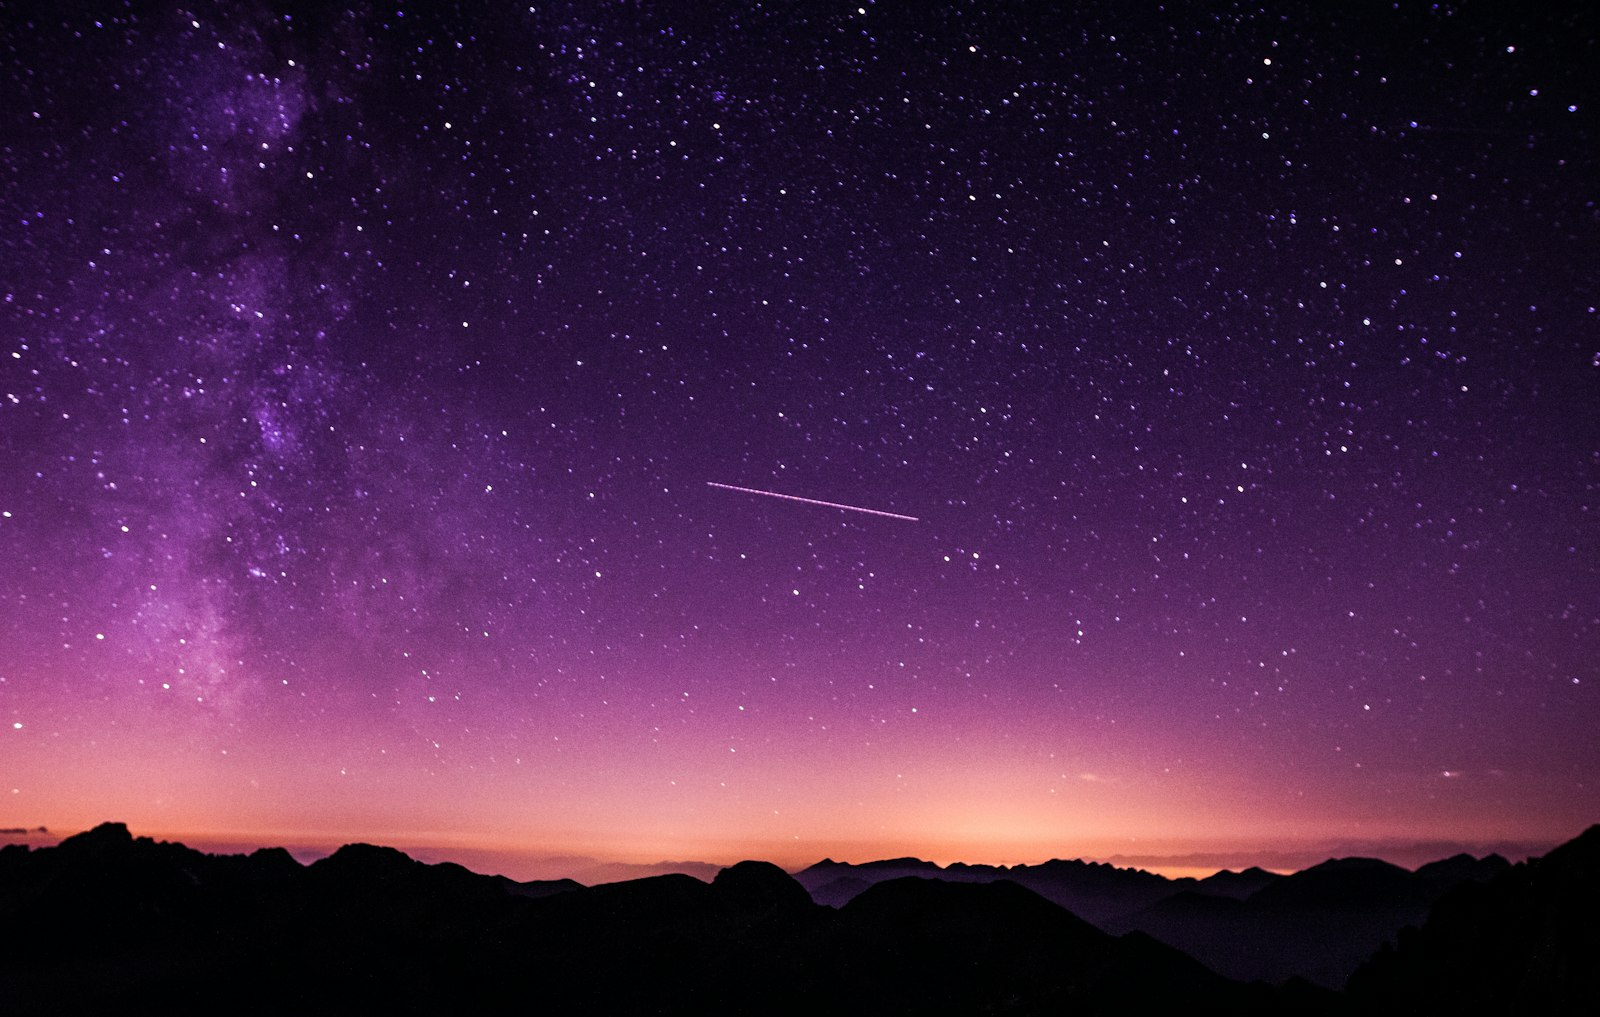
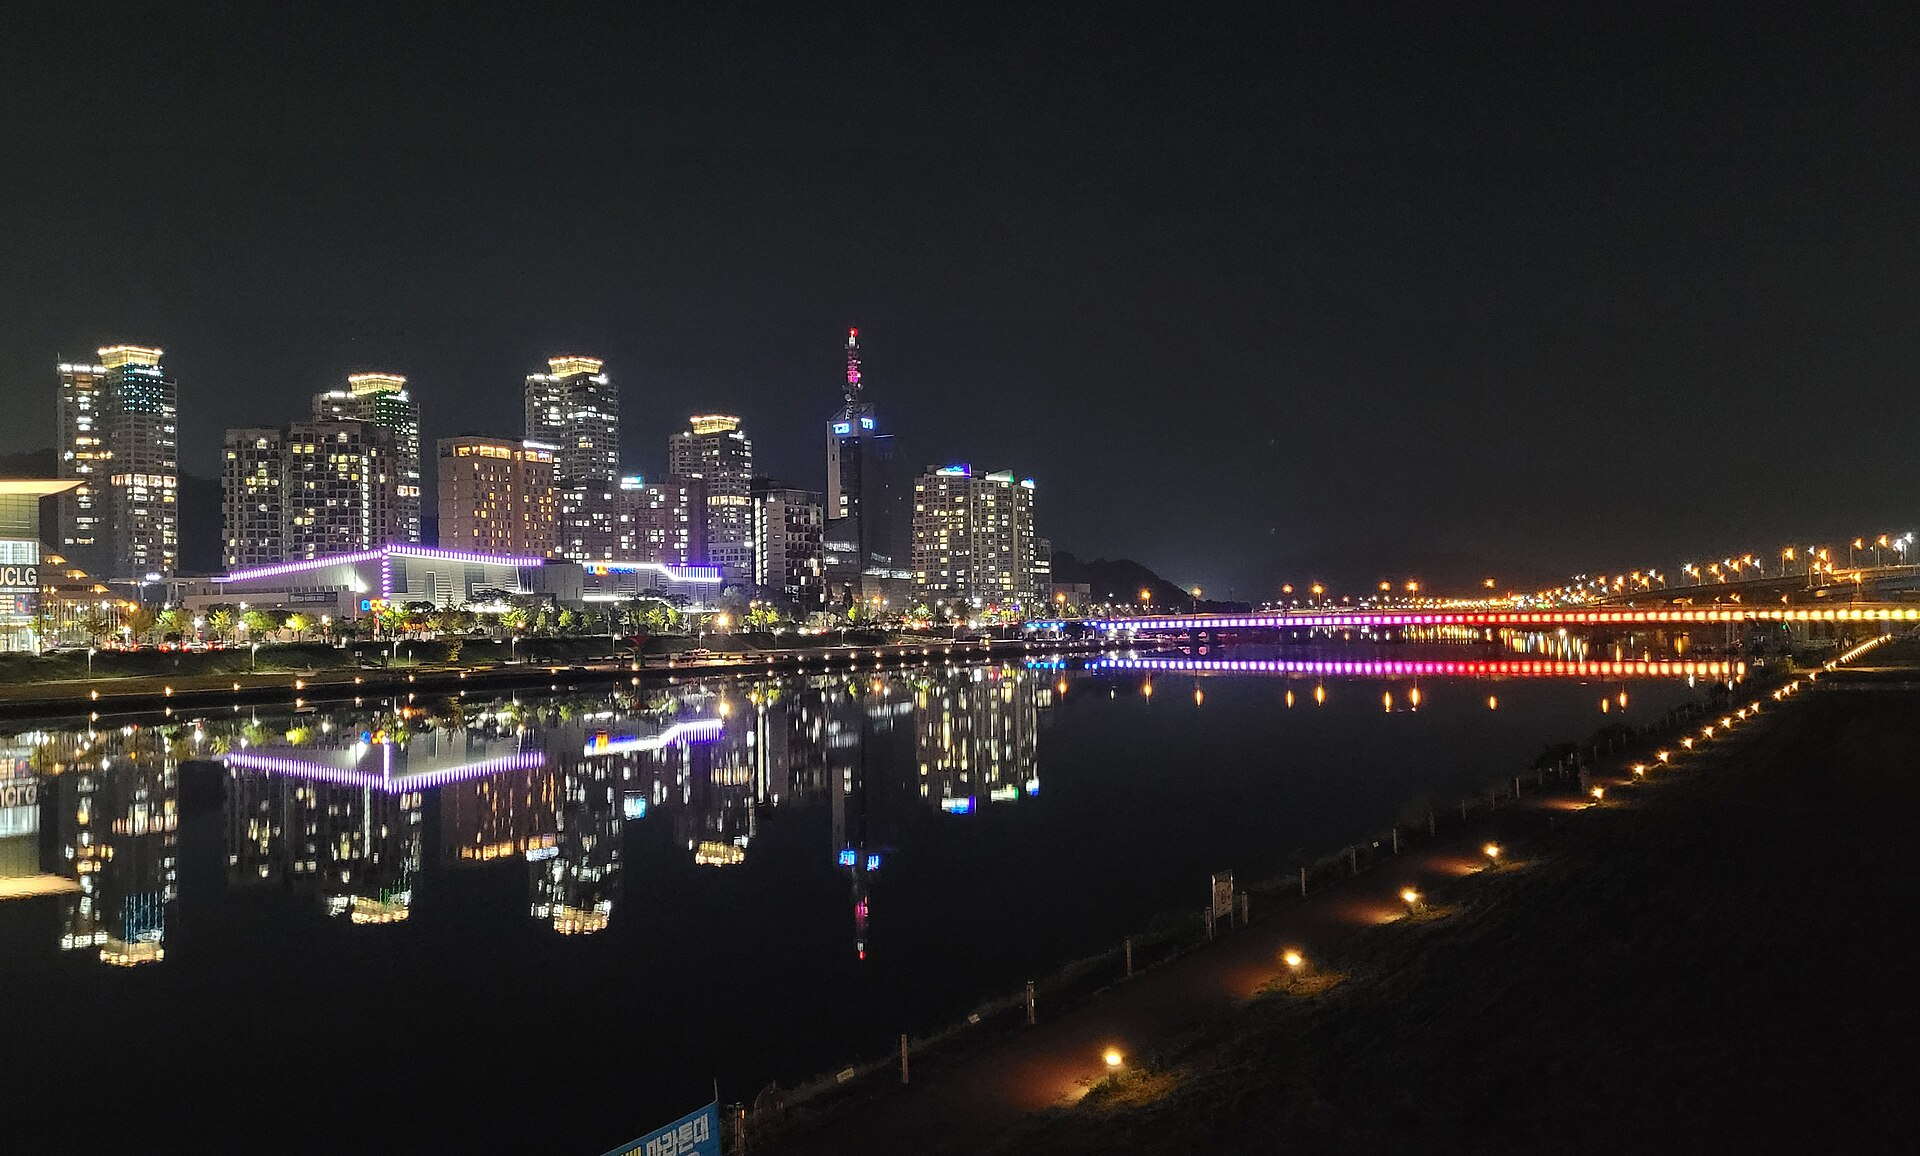
히어로·엑스포다리 카드에 대전 실제 야경 사진 적용 (Wikimedia Commons CC0)

diff --git a/src/app/[locale]/page.tsx b/src/app/[locale]/page.tsx
@@ -20,7 +20,7 @@ export default async function HomePage({
     <div>
       {/* 히어로 — 밤하늘 (사진 로드 전에는 night-hero 그라데이션이 폴백) */}
       <section className="night-hero relative overflow-hidden">
-        {/* 출처: Unsplash (무료 상업적 사용) — 추후 대전 실제 야경(공공누리)으로 교체 검토 */}
+        {/* 대전 갑천 야경 — Wikimedia Commons "Night in Daejeon 01" (CC0, 퍼블릭 도메인) */}
         <Image
           src="/hero-night.jpg"
           alt=""

diff --git a/src/lib/kto.ts b/src/lib/kto.ts
@@ -36,7 +36,7 @@ const MOCK_NIGHT_SPOTS: NightSpot[] = [
     addr: "대전광역시 유성구 도룡동",
     mapX: 127.3888,
     mapY: 36.3691,
-    imageUrl: null,
+    imageUrl: "/spots/expo-bridge.jpg", // Wikimedia Commons CC0
     category: "city",
   },
   {
